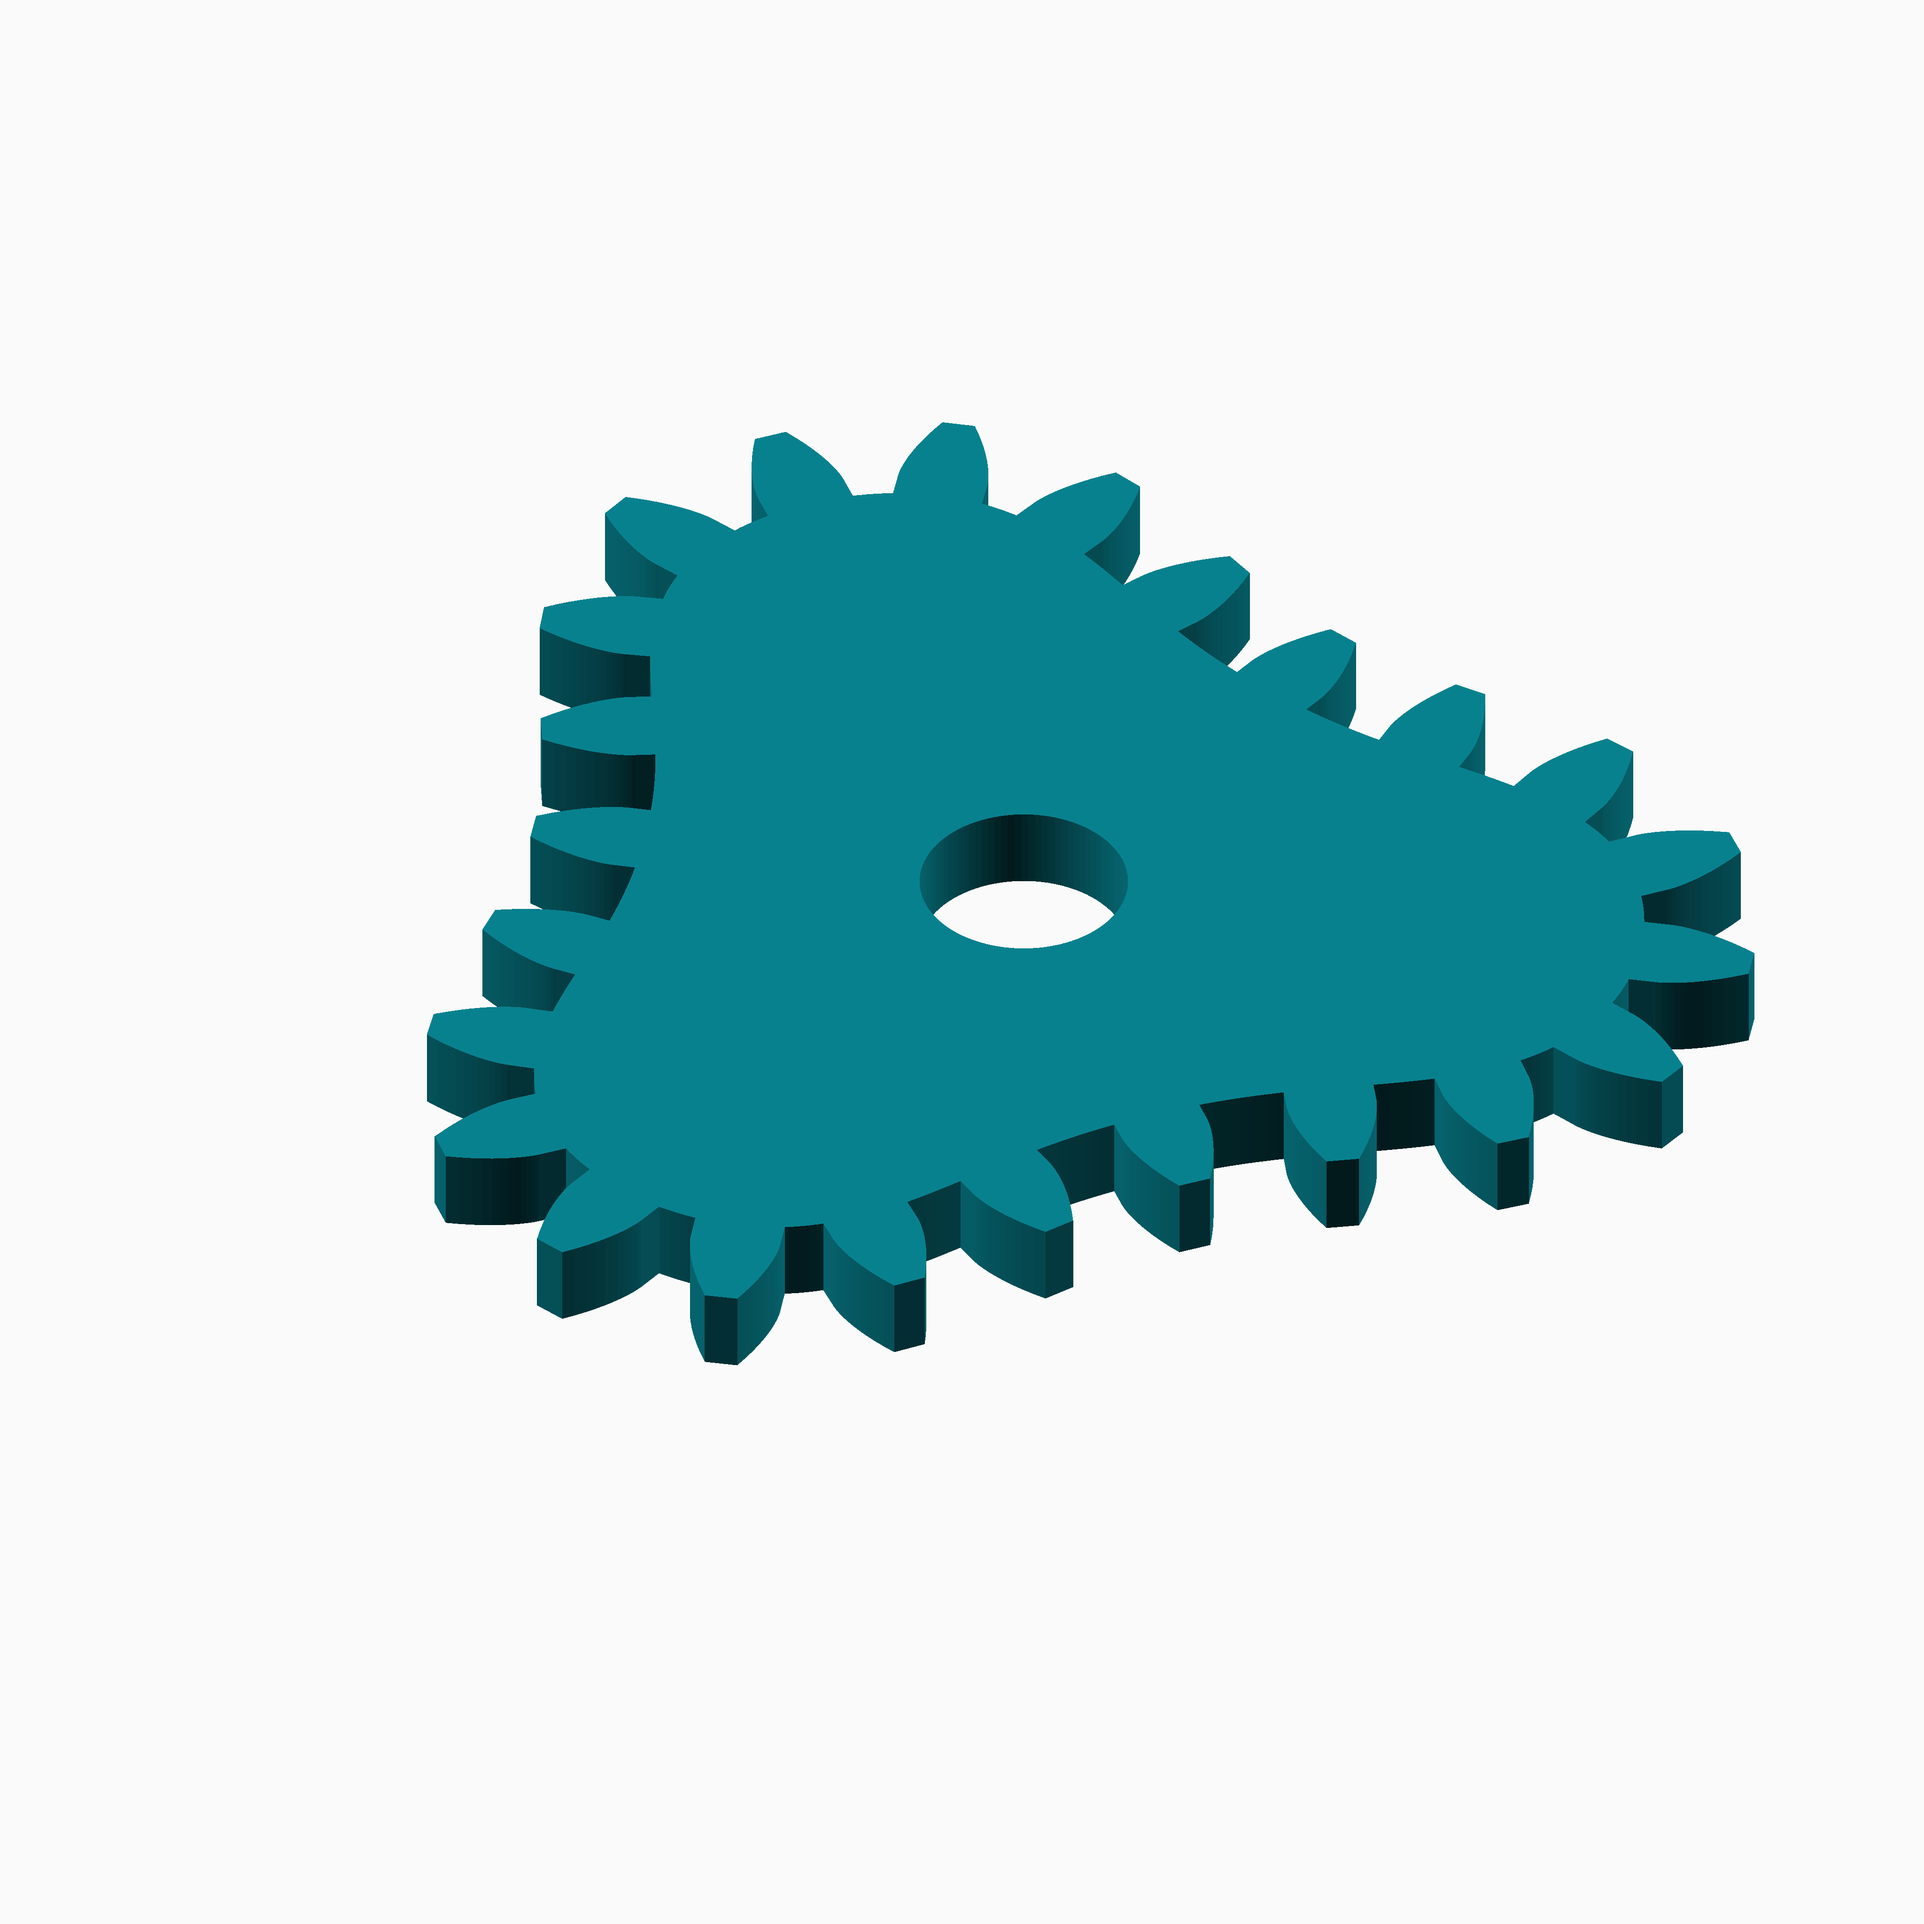
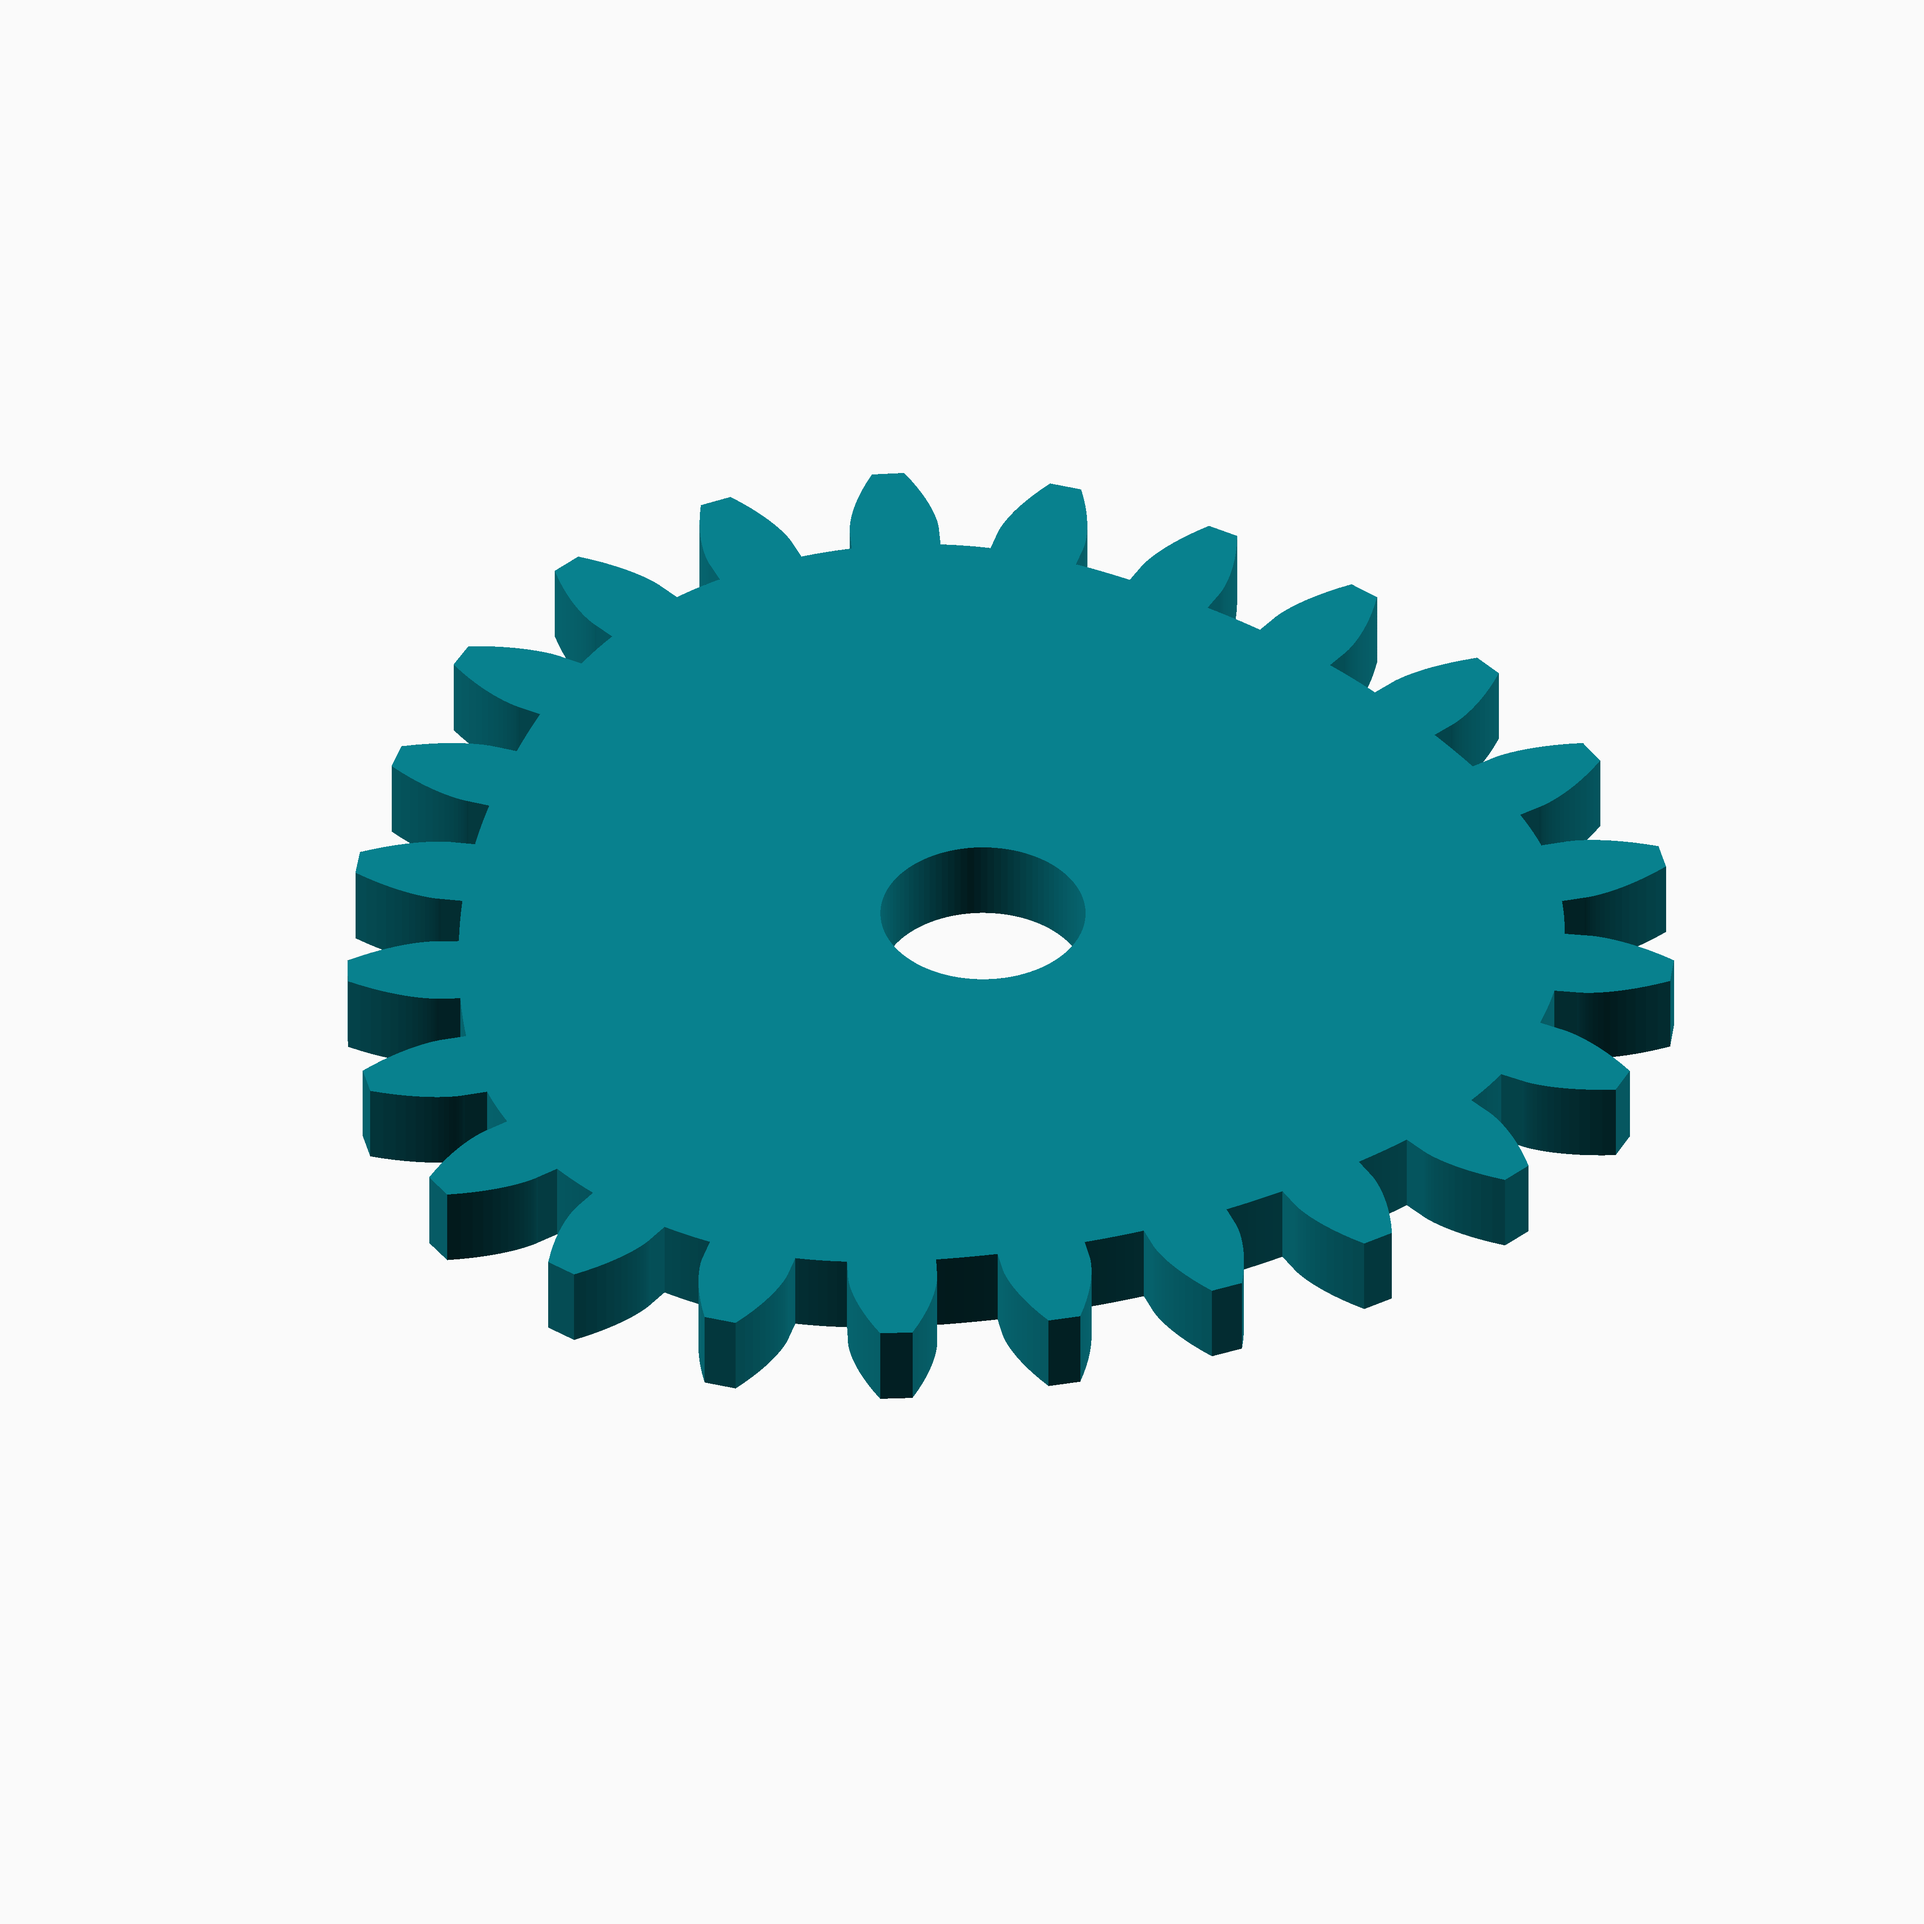
fix(examples): prevent Tanh Triad pair interpenetration

Changed region(s): [[0.1562, 0.2188, 0.9375, 0.75], [0.4375, 0.4062, 0.5938, 0.5312]]

diff --git a/examples/README.md b/examples/README.md
@@ -463,7 +463,7 @@ tooth scale or body proportions. Spiral pairs remain static references.
 
 > [`tanh_triad_body_alternative`](#function-tanh_triad_body_alternative): Tanh Triad alternative: The contrasting family controls shown as a body.
 
-> [`tanh_triad_curve_gear_alternative`](#function-tanh_triad_curve_gear_alternative): Tanh Triad alternative: A broad smooth triad with transition 0.8 and crest 0.32 replaces the canonical sharper, corrected triad. Removing the sixth-harmonic correction isolates the three-lobed tanh law; coarse teeth expose its boundary.
+> [`tanh_triad_curve_gear_alternative`](#function-tanh_triad_curve_gear_alternative): Tanh Triad alternative: A broad smooth triad with transition 0.8 and crest 0.08 replaces the canonical sharper, corrected triad. Removing the sixth-harmonic correction isolates the three-lobed tanh law; coarse teeth expose its boundary.
 
 > [`tanh_triad_curve_gear_pair_alternative`](#function-tanh_triad_curve_gear_pair_alternative): Tanh Triad alternative pair: The alternative curve and its mate meshed in contact for inspection.
 
@@ -4653,7 +4653,7 @@ Back to [module description](#module-executable-examples).
 
 
 Source: [`functions/tanh_triad/curve_gear_tanh_triad_alternative.scad`](functions/tanh_triad/curve_gear_tanh_triad_alternative.scad)
-A broad smooth triad with transition 0.8 and crest 0.32 replaces the canonical sharper, corrected triad. Removing the sixth-harmonic correction isolates the three-lobed tanh law; coarse teeth expose its boundary.
+A broad smooth triad with transition 0.8 and crest 0.08 replaces the canonical sharper, corrected triad. Removing the sixth-harmonic correction isolates the three-lobed tanh law; coarse teeth expose its boundary.
 
 **Parameters:**
 
@@ -4673,7 +4673,7 @@ Back to [module description](#module-executable-examples).
 
 
 Source: [`functions/tanh_triad/curve_gear_tanh_triad_pair_alternative.scad`](functions/tanh_triad/curve_gear_tanh_triad_pair_alternative.scad)
-A broad smooth triad with transition 0.8 and crest 0.32 replaces the canonical sharper, corrected triad. Removing the sixth-harmonic correction isolates the three-lobed tanh law; coarse teeth expose its boundary.
+A broad smooth triad with transition 0.8 and crest 0.08 replaces the canonical sharper, corrected triad. Removing the sixth-harmonic correction isolates the three-lobed tanh law; coarse teeth expose its boundary.
 
 **Parameters:**
 

diff --git a/docs/tanh_triad.md b/docs/tanh_triad.md
@@ -54,7 +54,6 @@ The module `Tanh Triad` defines the following functions.
 | [![tanh triad example preview](../images/functions/tanh_triad/curve_gear_tanh_triad.png)](../images/functions/tanh_triad/curve_gear_tanh_triad.png) | [![Tanh Triad gear alternative](../images/functions/tanh_triad/curve_gear_tanh_triad_alternative.png)](../images/functions/tanh_triad/curve_gear_tanh_triad_alternative.png) |
 
 
-A broad smooth triad with transition 0.8 and crest 0.32 replaces the canonical sharper, corrected triad. Removing the sixth-harmonic correction isolates the three-lobed tanh law; coarse teeth expose its boundary.
 
 
 
